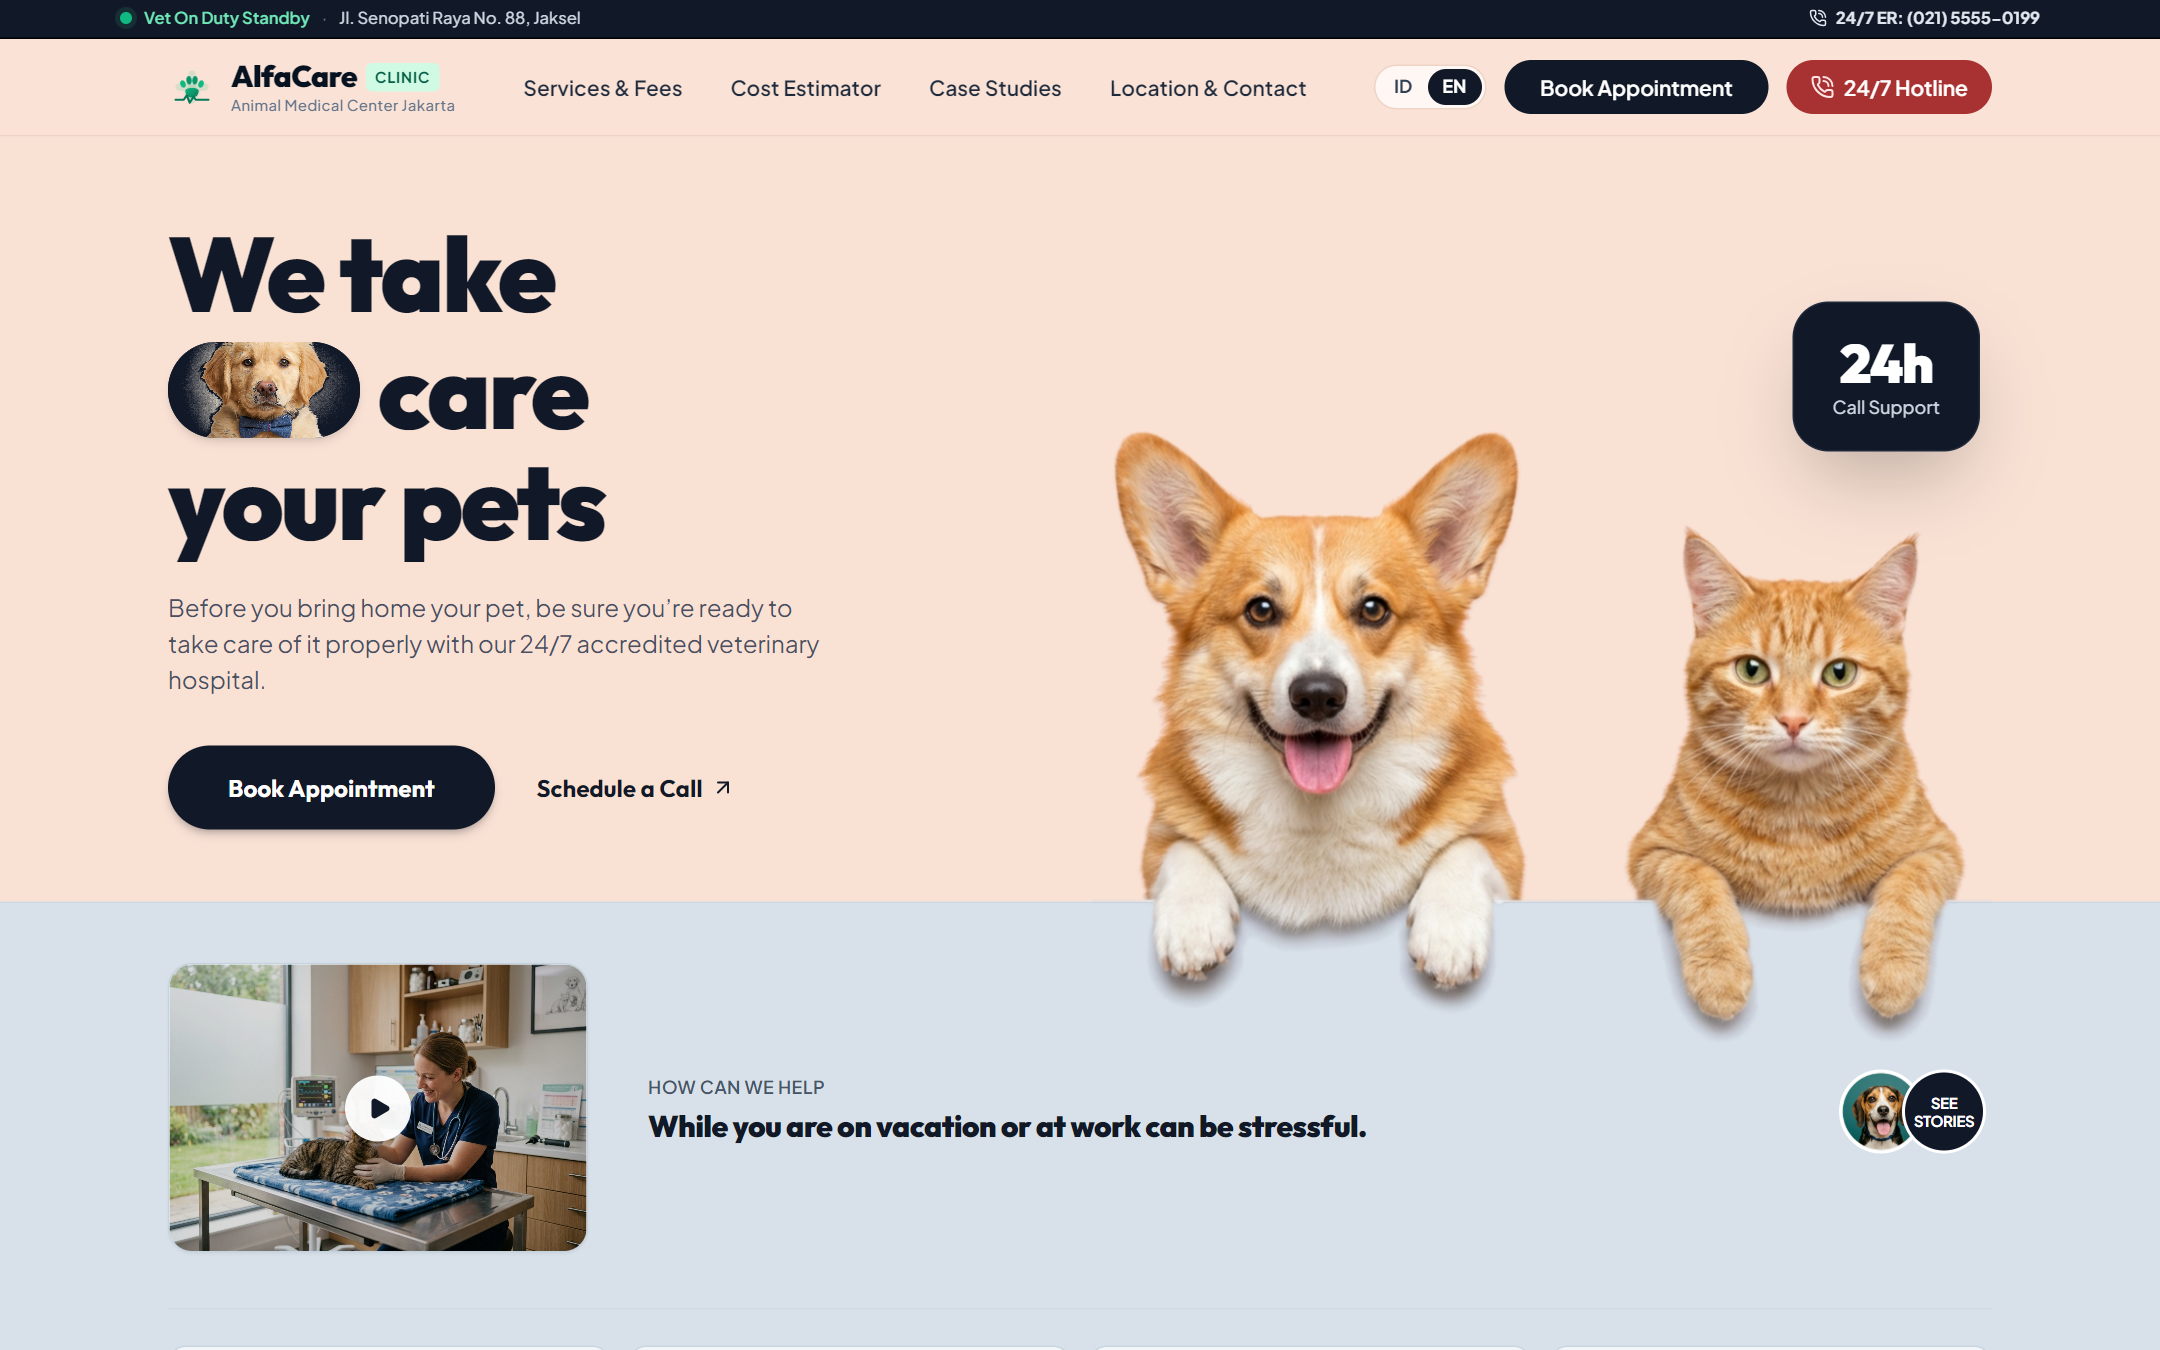
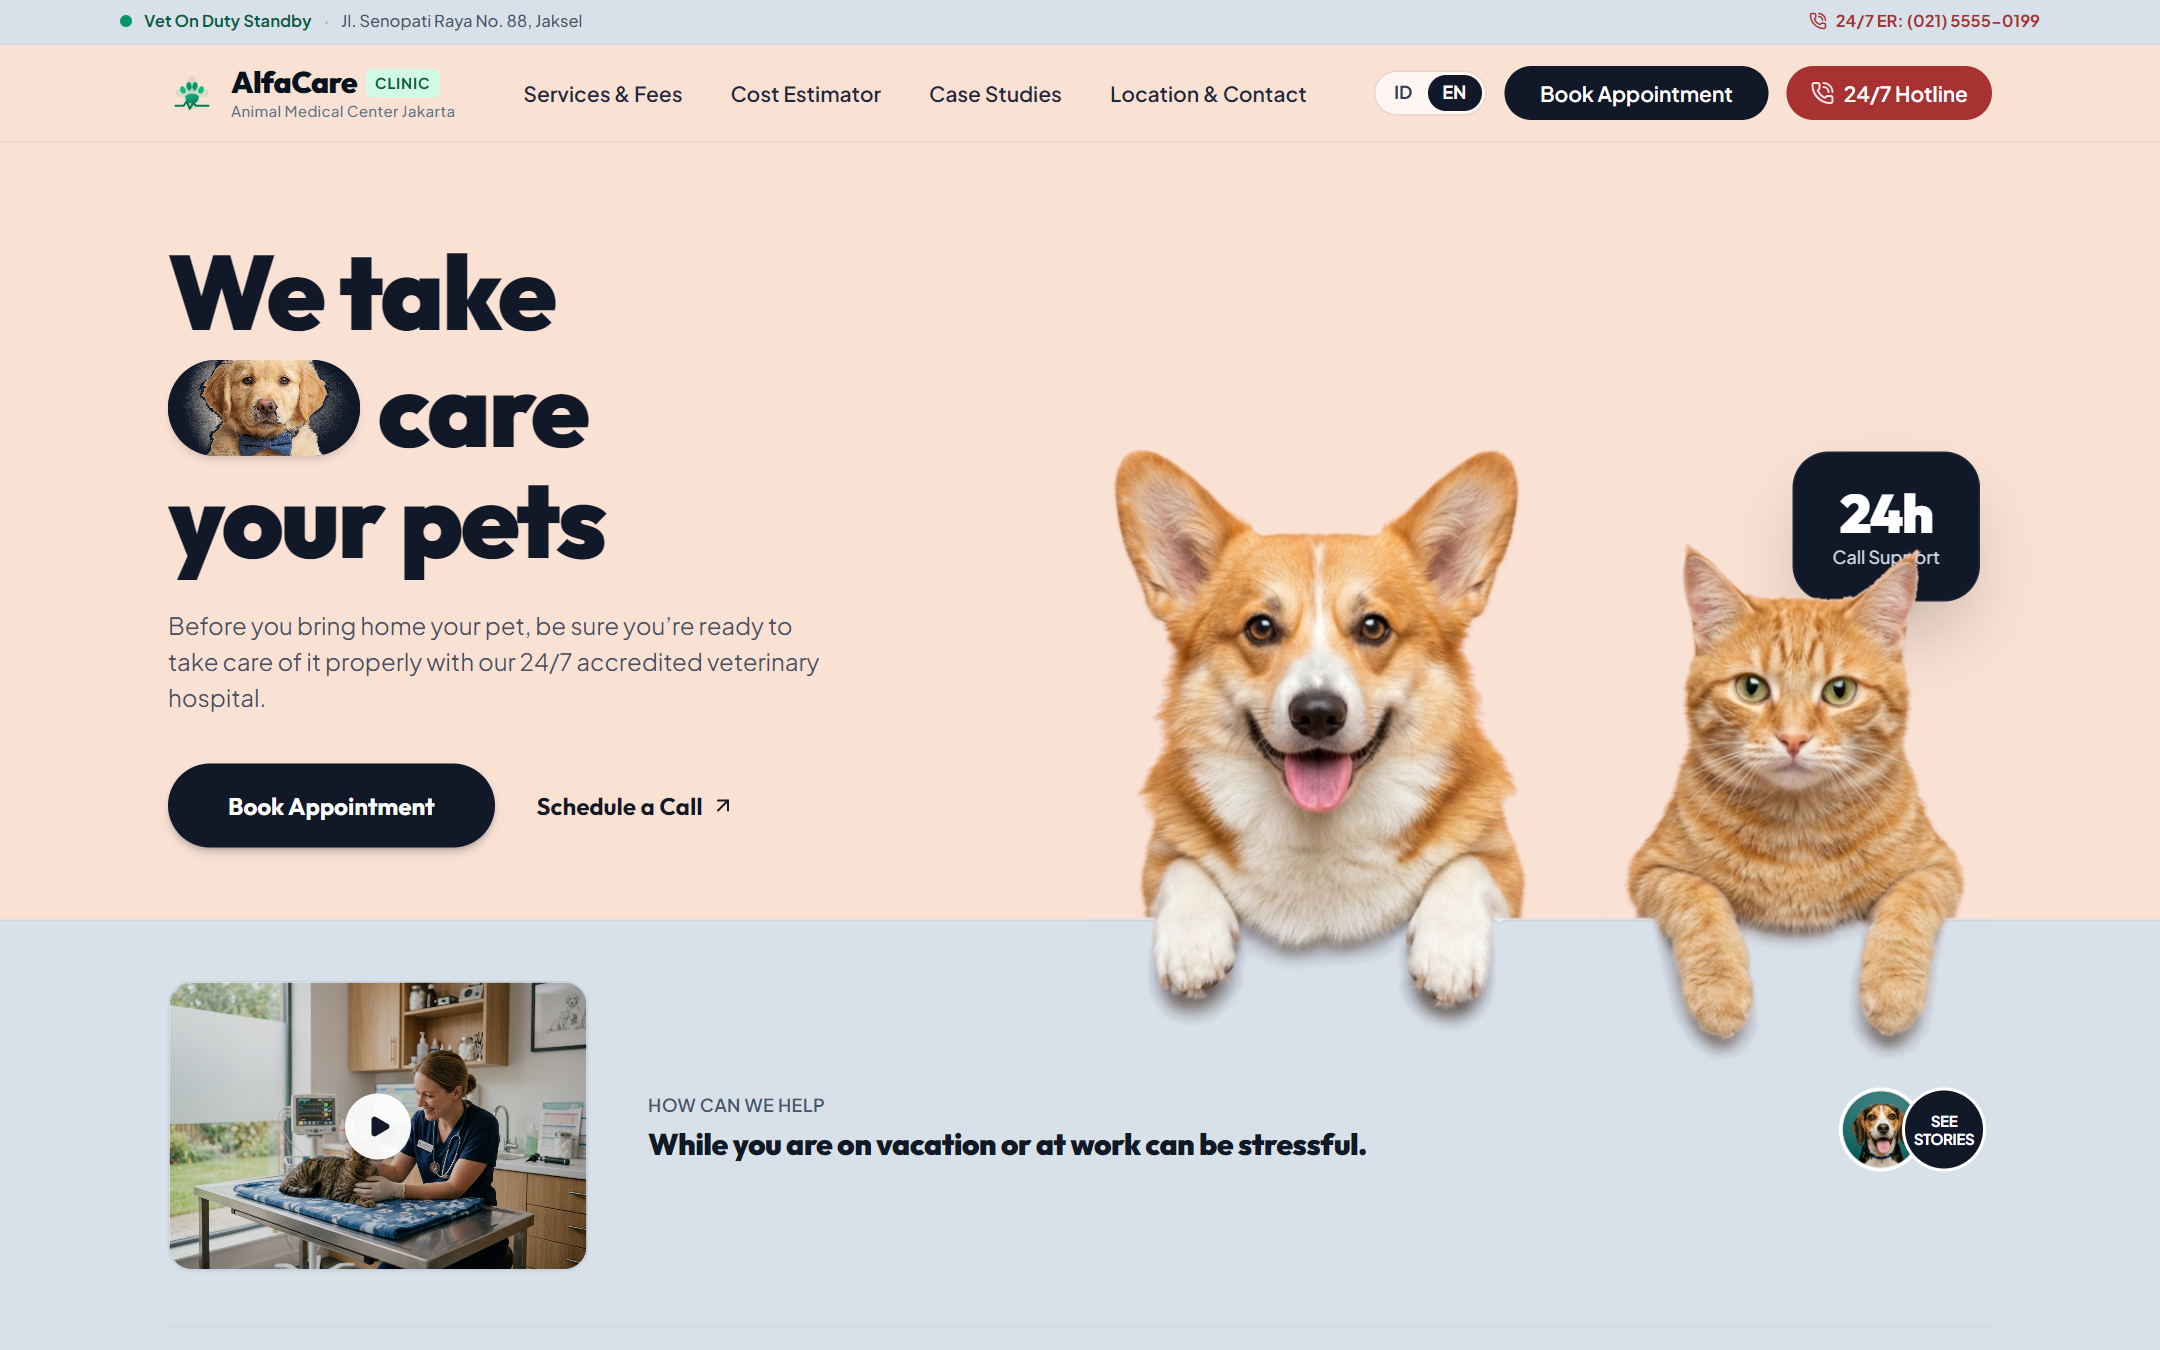
docs: update README with refreshed screenshots tour, refine gitignore, and clean up obsolete assets

diff --git a/scripts/capture-screenshots.js b/scripts/capture-screenshots.js
@@ -8,6 +8,26 @@ async function capture() {
     fs.mkdirSync(outputDir, { recursive: true });
   }
 
+  // Remove obsolete/debug files if they exist
+  const obsoleteFiles = [
+    '02-pricing-estimator.png',
+    '03-booking-funnel.png',
+    '04-clinical-case-studies.png',
+    '05-emergency-triage-guide.png',
+    '01c-scroll-test-overlap.png',
+    'bfs-both-test.png',
+    'dog-paw-debug.png',
+    'floodfill-paw-test.png',
+    'raw-paw-patch.png',
+  ];
+  for (const f of obsoleteFiles) {
+    const fullPath = path.join(outputDir, f);
+    if (fs.existsSync(fullPath)) {
+      fs.unlinkSync(fullPath);
+      console.log(`Cleaned up obsolete image: ${f}`);
+    }
+  }
+
   const browser = await puppeteer.launch({
     executablePath: 'C:\\Program Files (x86)\\Microsoft\\Edge\\Application\\msedge.exe',
     headless: 'new',
@@ -21,16 +41,47 @@ async function capture() {
   console.log(`Navigating to ${targetUrl}...`);
   await page.goto(targetUrl, { waitUntil: 'networkidle0', timeout: 30000 });
 
-  // 1. Hero Showcase (Initial Top)
-  console.log('Capturing Hero Section...');
+  // 1. Hero Showcase (Desktop Indonesian)
+  console.log('Capturing 01-hero-showcase.png...');
   await page.screenshot({ path: path.join(outputDir, '01-hero-showcase.png') });
 
-  // 1b. Hero Scrolled (Verify sticky navbar smoothly covers 24h box during scroll)
-  console.log('Capturing Hero Section Scrolled (testing 24h box under navbar)...');
+  // 1b. Hero Scrolled
+  console.log('Capturing 01b-hero-scrolled.png...');
   await page.evaluate(() => window.scrollBy(0, 140));
   await new Promise((r) => setTimeout(r, 600));
   await page.screenshot({ path: path.join(outputDir, '01b-hero-scrolled.png') });
   await page.evaluate(() => window.scrollTo(0, 0));
+
+  // 1c. Hero English Version
+  console.log('Capturing 01-hero-english.png...');
+  const enButtons = await page.$$('button');
+  for (const btn of enButtons) {
+    const text = await page.evaluate((el) => el.textContent, btn);
+    if (text && text.trim() === 'EN') {
+      await btn.click();
+      break;
+    }
+  }
+  await new Promise((r) => setTimeout(r, 600));
+  await page.screenshot({ path: path.join(outputDir, '01-hero-english.png') });
+
+  // Switch back to ID
+  for (const btn of await page.$$('button')) {
+    const text = await page.evaluate((el) => el.textContent, btn);
+    if (text && text.trim() === 'ID') {
+      await btn.click();
+      break;
+    }
+  }
+  await new Promise((r) => setTimeout(r, 600));
+
+  // 1d. Hero Mobile Viewport
+  console.log('Capturing 01-hero-mobile.png...');
+  const mobilePage = await browser.newPage();
+  await mobilePage.setViewport({ width: 390, height: 844, deviceScaleFactor: 2, isMobile: true, hasTouch: true });
+  await mobilePage.goto(targetUrl, { waitUntil: 'networkidle0', timeout: 30000 });
+  await mobilePage.screenshot({ path: path.join(outputDir, '01-hero-mobile.png') });
+  await mobilePage.close();
 
   // Helper to hide sticky header for clean section photography
   await page.evaluate(() => {
@@ -39,7 +90,7 @@ async function capture() {
   });
 
   // 2. Services Section
-  console.log('Capturing Services Section...');
+  console.log('Capturing 02-services-showcase.png...');
   const servicesEl = await page.$('#services');
   if (servicesEl) {
     await servicesEl.scrollIntoView();
@@ -48,7 +99,7 @@ async function capture() {
   }
 
   // 3. Pricing Estimator Section
-  console.log('Capturing Pricing Estimator...');
+  console.log('Capturing 03-pricing-estimator.png...');
   const estimatorEl = await page.$('#estimator');
   if (estimatorEl) {
     await estimatorEl.scrollIntoView();
@@ -57,7 +108,7 @@ async function capture() {
   }
 
   // 4. Multi-Step Booking Funnel
-  console.log('Capturing Booking Funnel...');
+  console.log('Capturing 04-booking-funnel.png...');
   const bookingEl = await page.$('#booking');
   if (bookingEl) {
     await bookingEl.scrollIntoView();
@@ -66,7 +117,7 @@ async function capture() {
   }
 
   // 5. Case Studies Section
-  console.log('Capturing Case Studies...');
+  console.log('Capturing 05-clinical-case-studies.png...');
   const casesEl = await page.$('#cases');
   if (casesEl) {
     await casesEl.scrollIntoView();
@@ -75,7 +126,7 @@ async function capture() {
   }
 
   // 6. Emergency Triage Section
-  console.log('Capturing Emergency Triage...');
+  console.log('Capturing 06-emergency-triage-guide.png...');
   const triageEl = await page.$('#emergency');
   if (triageEl) {
     await triageEl.scrollIntoView();
@@ -84,7 +135,7 @@ async function capture() {
   }
 
   // 7. Clinic Location Section
-  console.log('Capturing Clinic Location...');
+  console.log('Capturing 07-clinic-location.png...');
   const locationEl = await page.$('#location');
   if (locationEl) {
     await locationEl.scrollIntoView();
@@ -93,7 +144,7 @@ async function capture() {
   }
 
   // 8. Footer Section
-  console.log('Capturing Footer Section...');
+  console.log('Capturing 08-footer.png...');
   const footerEl = await page.$('footer');
   if (footerEl) {
     await footerEl.scrollIntoView();
@@ -101,7 +152,7 @@ async function capture() {
     await footerEl.screenshot({ path: path.join(outputDir, '08-footer.png') });
   }
 
-  console.log('Screenshots successfully re-captured with pristine layout!');
+  console.log('All screenshots successfully refreshed with the latest design!');
   await browser.close();
 }
 

diff --git a/README.md b/README.md
@@ -17,39 +17,63 @@
 
 ## 🌟 Overview
 
-**AlfaCare Animal Clinic** is a production-grade veterinary clinical platform engineered to bridge medical precision with high-conversion client communication. Designed specifically for the veterinary ecosystem in South Jakarta, it features transparent pricing estimation, multi-step triage reservations, live database persistence, and automated WhatsApp triage routing.
+**AlfaCare Animal Clinic** is a production-grade veterinary clinical platform engineered to bridge medical precision with high-conversion, warm editorial client communication. Designed specifically for the veterinary ecosystem in South Jakarta, it features transparent pricing estimation, multi-step triage reservations, live database persistence, automated WhatsApp triage routing, and a warm, approachable brand aesthetic (Warm Blush Peach, Powdery Ice Blue, and Midnight Ink).
 
 ---
 
 ## 📸 Visual Showcase & Interface Tour
 
 ### 1. 🏥 Hero Showcase & Emergency Command Center
-Modern asymmetric hero layout featuring live doctor-on-duty telemetry, official SIPDH accreditations, and dual conversion action pathways.
+Warm editorial hero layout featuring custom dual-pet shelf framing, live doctor-on-duty telemetry, official SIPDH accreditations, and dual conversion action pathways.
 ![AlfaCare Hero Showcase](./docs/screenshots/01-hero-showcase.png)
 
+<div align="center">
+  <img src="./docs/screenshots/01-hero-mobile.png" alt="AlfaCare Mobile Experience" width="32%" />
+  &nbsp;&nbsp;
+  <img src="./docs/screenshots/01-hero-english.png" alt="AlfaCare Bilingual English Mode" width="64%" />
+</div>
+
 ---
 
-### 2. 🧮 Interactive Service & Pricing Estimator
-Transparent tariff calculator calibrated for Jakarta benchmark rates, supporting dynamic species and weight multiplier logic.
-![Interactive Pricing Estimator](./docs/screenshots/02-pricing-estimator.png)
+### 2. 🩺 Comprehensive Veterinary Services Catalog
+Full clinical medical service suite with ISO sterile surgery rooms, 24-hour isolation wards, digital X-rays, and Doppler ultrasound diagnostics.
+![Clinical Services Showcase](./docs/screenshots/02-services-showcase.png)
 
 ---
 
-### 3. 📋 4-Step Clinical Booking Funnel
+### 3. 🧮 Interactive Service & Pricing Estimator
+Transparent tariff calculator calibrated for Jakarta benchmark rates, supporting dynamic species and weight multiplier logic with instant cost breakdown.
+![Interactive Pricing Estimator](./docs/screenshots/03-pricing-estimator.png)
+
+---
+
+### 4. 📋 4-Step Clinical Booking Funnel
 Streamlined multi-step patient registration with inline validation, triage urgency flags, doctor selection, and PDP data consent.
-![Multi-Step Booking Funnel](./docs/screenshots/03-booking-funnel.png)
+![Multi-Step Booking Funnel](./docs/screenshots/04-booking-funnel.png)
 
 ---
 
-### 4. 🔬 Verified Clinical Case Studies
+### 5. 🔬 Verified Clinical Case Studies
 Social proof gallery powered by Supabase PostgreSQL, showcasing Before & After recovery sliders and veterinary specialist notes.
-![Clinical Case Studies](./docs/screenshots/04-clinical-case-studies.png)
+![Clinical Case Studies](./docs/screenshots/05-clinical-case-studies.png)
 
 ---
 
-### 5. 🚨 24/7 Emergency Triage & First-Aid Protocols
+### 6. 🚨 24/7 Emergency Triage & First-Aid Protocols
 Step-by-step emergency stabilization guide with immediate IGD call bridges and Jakarta clinic location map.
-![Emergency Triage Guide](./docs/screenshots/05-emergency-triage-guide.png)
+![Emergency Triage Guide](./docs/screenshots/06-emergency-triage-guide.png)
+
+---
+
+### 7. 📍 Modern Jakarta Clinic Facility & Directions
+Facility overview with dedicated dog & cat waiting rooms, drop-off parking area, and direct Google Maps GPS navigation.
+![Clinic Location & Facilities](./docs/screenshots/07-clinic-location.png)
+
+---
+
+### 8. 🛡 Harmonized Clinical Footer & Accreditations
+Warm blush footer featuring operational hours, clinical service tags, emergency contacts, and Indonesian PDP Law compliance badge.
+![AlfaCare Clinical Footer](./docs/screenshots/08-footer.png)
 
 ---
 
@@ -101,7 +125,7 @@ Step-by-step emergency stabilization guide with immediate IGD call bridges and J
 - **Framework:** [Next.js 15](https://nextjs.org/) (App Router, Server Components & Route Handlers)
 - **Frontend Library:** [React 19](https://react.dev/)
 - **Language:** [TypeScript](https://www.typescriptlang.org/) (Strict Mode)
-- **Styling:** [Tailwind CSS](https://tailwindcss.com/) with clinical brand tokens (Deep Navy, Emerald Trust, Urgent Coral)
+- **Styling:** [Tailwind CSS](https://tailwindcss.com/) with custom warm editorial palette (Warm Blush Peach `#FDF6F1`, Powdery Ice Blue `#D8E1EA`, Deep Emerald, and Midnight Ink `#111827`)
 - **Icons:** [Lucide React](https://lucide.dev/)
 - **Database & Storage:** [Supabase](https://supabase.com/) (PostgreSQL 15+, Row Level Security)
 - **Email Dispatch:** [Resend](https://resend.com/) (HTML transactional booking vouchers)
